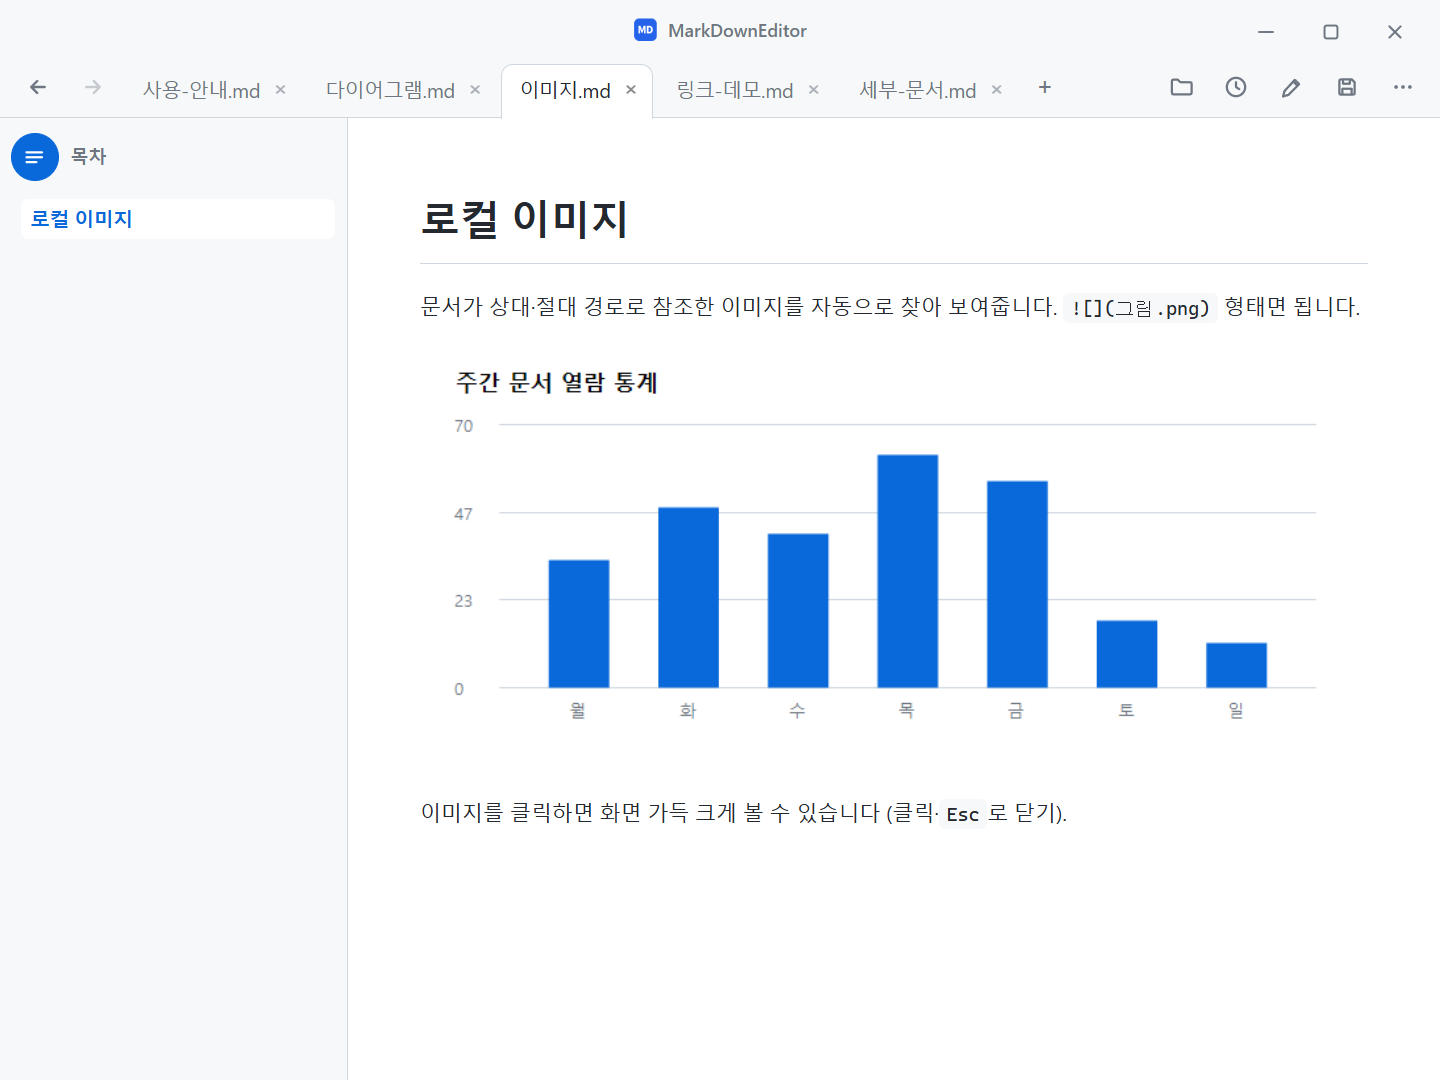
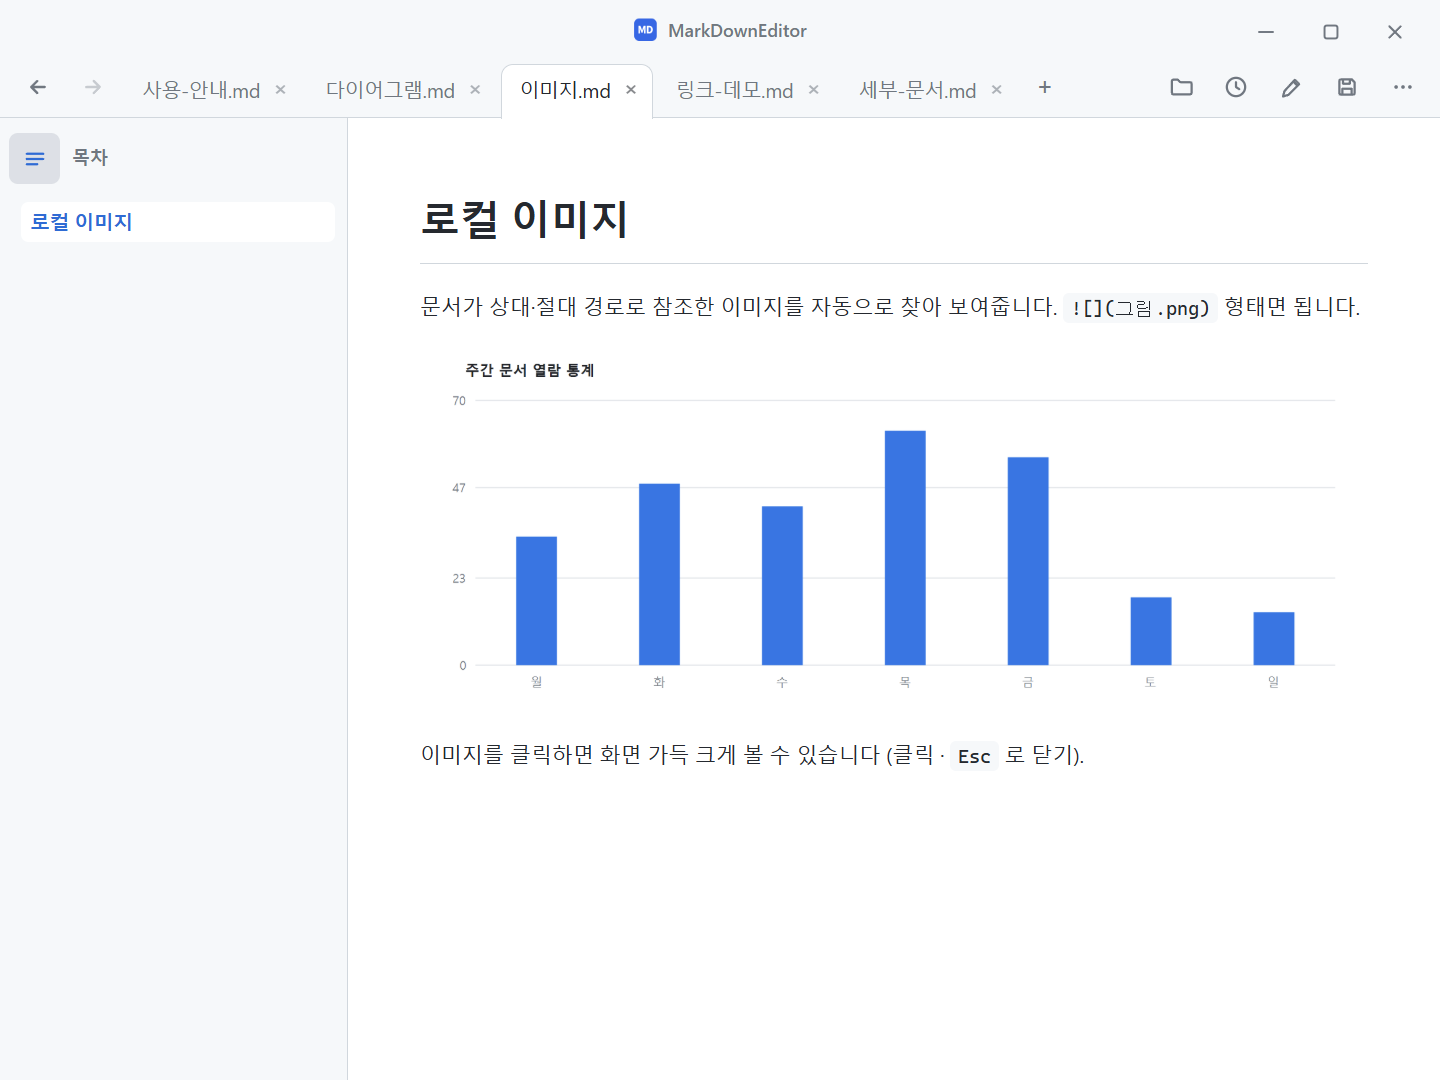
목차 버튼을 툴바와 같은 플랫 아이콘 버튼으로 통일
- #tocBtn: 원형 테두리 버튼 → 34px 플랫 버튼(테두리 0, radius 6, hover/활성 토큰 공유)
- 활성(목차 열림) 상태는 파란 채움 대신 은은한 배경 + 파란 아이콘
- 아이콘 16px/stroke 1.5로 다른 아이콘과 통일, 레일↔패널 위치 보정(-8px) 갱신
- 접근성: 드롭다운 메뉴에 role=menu/menuitem 부여 (스크린리더·UIA 인식)
- README 스크린샷 8장 재촬영 (편집 모드 제외 전부 목차 버튼 노출)

diff --git a/src/web/style.css b/src/web/style.css
@@ -251,21 +251,24 @@ main { flex: 1; min-height: 0; position: relative; display: flex; }
   align-items: flex-start;
 }
 #tocRail[hidden] { display: none; }
+/* 툴바(#tabrow > button)와 동일한 플랫 아이콘 버튼 */
 #tocBtn {
-  width: 32px;
-  height: 32px;
+  width: 34px;
+  height: 34px;
   display: inline-flex;
   align-items: center;
   justify-content: center;
-  border: 1px solid var(--border);
-  border-radius: 50%;
-  background: var(--bar);
+  padding: 0;
+  border: 0;
+  border-radius: 6px;
+  background: transparent;
   color: var(--muted);
   cursor: pointer;
-  transition: background-color .15s ease, color .15s ease, border-color .15s ease;
+  transition: background-color .15s ease, color .15s ease;
 }
-#tocBtn:hover { color: var(--accent); border-color: var(--accent); }
-#tocBtn.active { background: var(--accent); border-color: var(--accent); color: #fff; }
+#tocBtn:hover { background: var(--btn-hover); color: var(--fg); }
+#tocBtn:active { background: var(--btn-press); }
+#tocBtn.active { background: var(--btn-press); color: var(--accent); }
 
 /* 목차 사이드바 (미리보기 전용, ☰ 버튼으로 토글)
    헤더(제목 + 토글 버튼)는 고정, 리스트만 스크롤 */
@@ -282,12 +285,12 @@ main { flex: 1; min-height: 0; position: relative; display: flex; }
 }
 #toc[hidden] { display: none; }
 /* 헤더의 ☰ 버튼은 닫힘 상태(레일)와 화면상 같은 위치에 오도록 정렬
-   (레일: 폭 46, 버튼 32 중앙 → 좌측 7px / 패널 padding-left 14 - 7 보정) */
+   (레일: 폭 46, 버튼 34 중앙 → 좌측 6px / 패널 padding-left 14 - 6 보정) */
 #tocHead {
   display: flex;
   align-items: center;
   gap: 8px;
-  margin-left: -7px;
+  margin-left: -8px;
   margin-bottom: 8px;
 }
 #tocTitle { font-weight: 600; color: var(--muted); font-size: 12px; }

diff --git a/src/web/index.html b/src/web/index.html
@@ -101,8 +101,8 @@
     <!-- 목차 토글 레일: 탭 바로 아래 왼쪽 고정. 별도 열이라 문서를 가리지 않고 스크롤 영향도 없음 -->
     <div id="tocRail">
       <button id="tocBtn" title="목차 표시/숨김">
-        <svg width="15" height="15" viewBox="0 0 16 16" fill="none" aria-hidden="true">
-          <path d="M2.5 4.5h11M2.5 8h11M2.5 11.5h7" stroke="currentColor" stroke-width="1.6"
+        <svg width="16" height="16" viewBox="0 0 16 16" fill="none" aria-hidden="true">
+          <path d="M2.5 4.5h11M2.5 8h11M2.5 11.5h7" stroke="currentColor" stroke-width="1.5"
                 stroke-linecap="round"/>
         </svg>
       </button>
@@ -145,7 +145,7 @@
   <div id="toast"></div>
 
   <!-- 탭 우클릭 메뉴 (항목은 JS가 생성) -->
-  <div id="ctxmenu" hidden></div>
+  <div id="ctxmenu" role="menu" hidden></div>
 
   <!-- mermaid.min.js(3.4MB)는 시작 속도를 위해 여기서 로드하지 않고,
        mermaid 블록을 처음 만날 때 app.js가 동적으로 로드한다 (ensureMermaid) -->

diff --git a/src/web/app.js b/src/web/app.js
@@ -988,6 +988,8 @@ function showMenuAt(items, anchor, align) {
     }
     const el = document.createElement('div');
     el.className = 'ctx-item' + (it.disabled ? ' disabled' : '');
+    el.setAttribute('role', 'menuitem');            // 접근성: 스크린리더/자동화가 메뉴 항목으로 인식
+    if (it.disabled) el.setAttribute('aria-disabled', 'true');
     el.textContent = it.label;
     if (it.tip) el.title = it.tip;
     if (!it.disabled) el.addEventListener('click', (e) => { e.stopPropagation(); hideTabMenu(); it.act(); });
